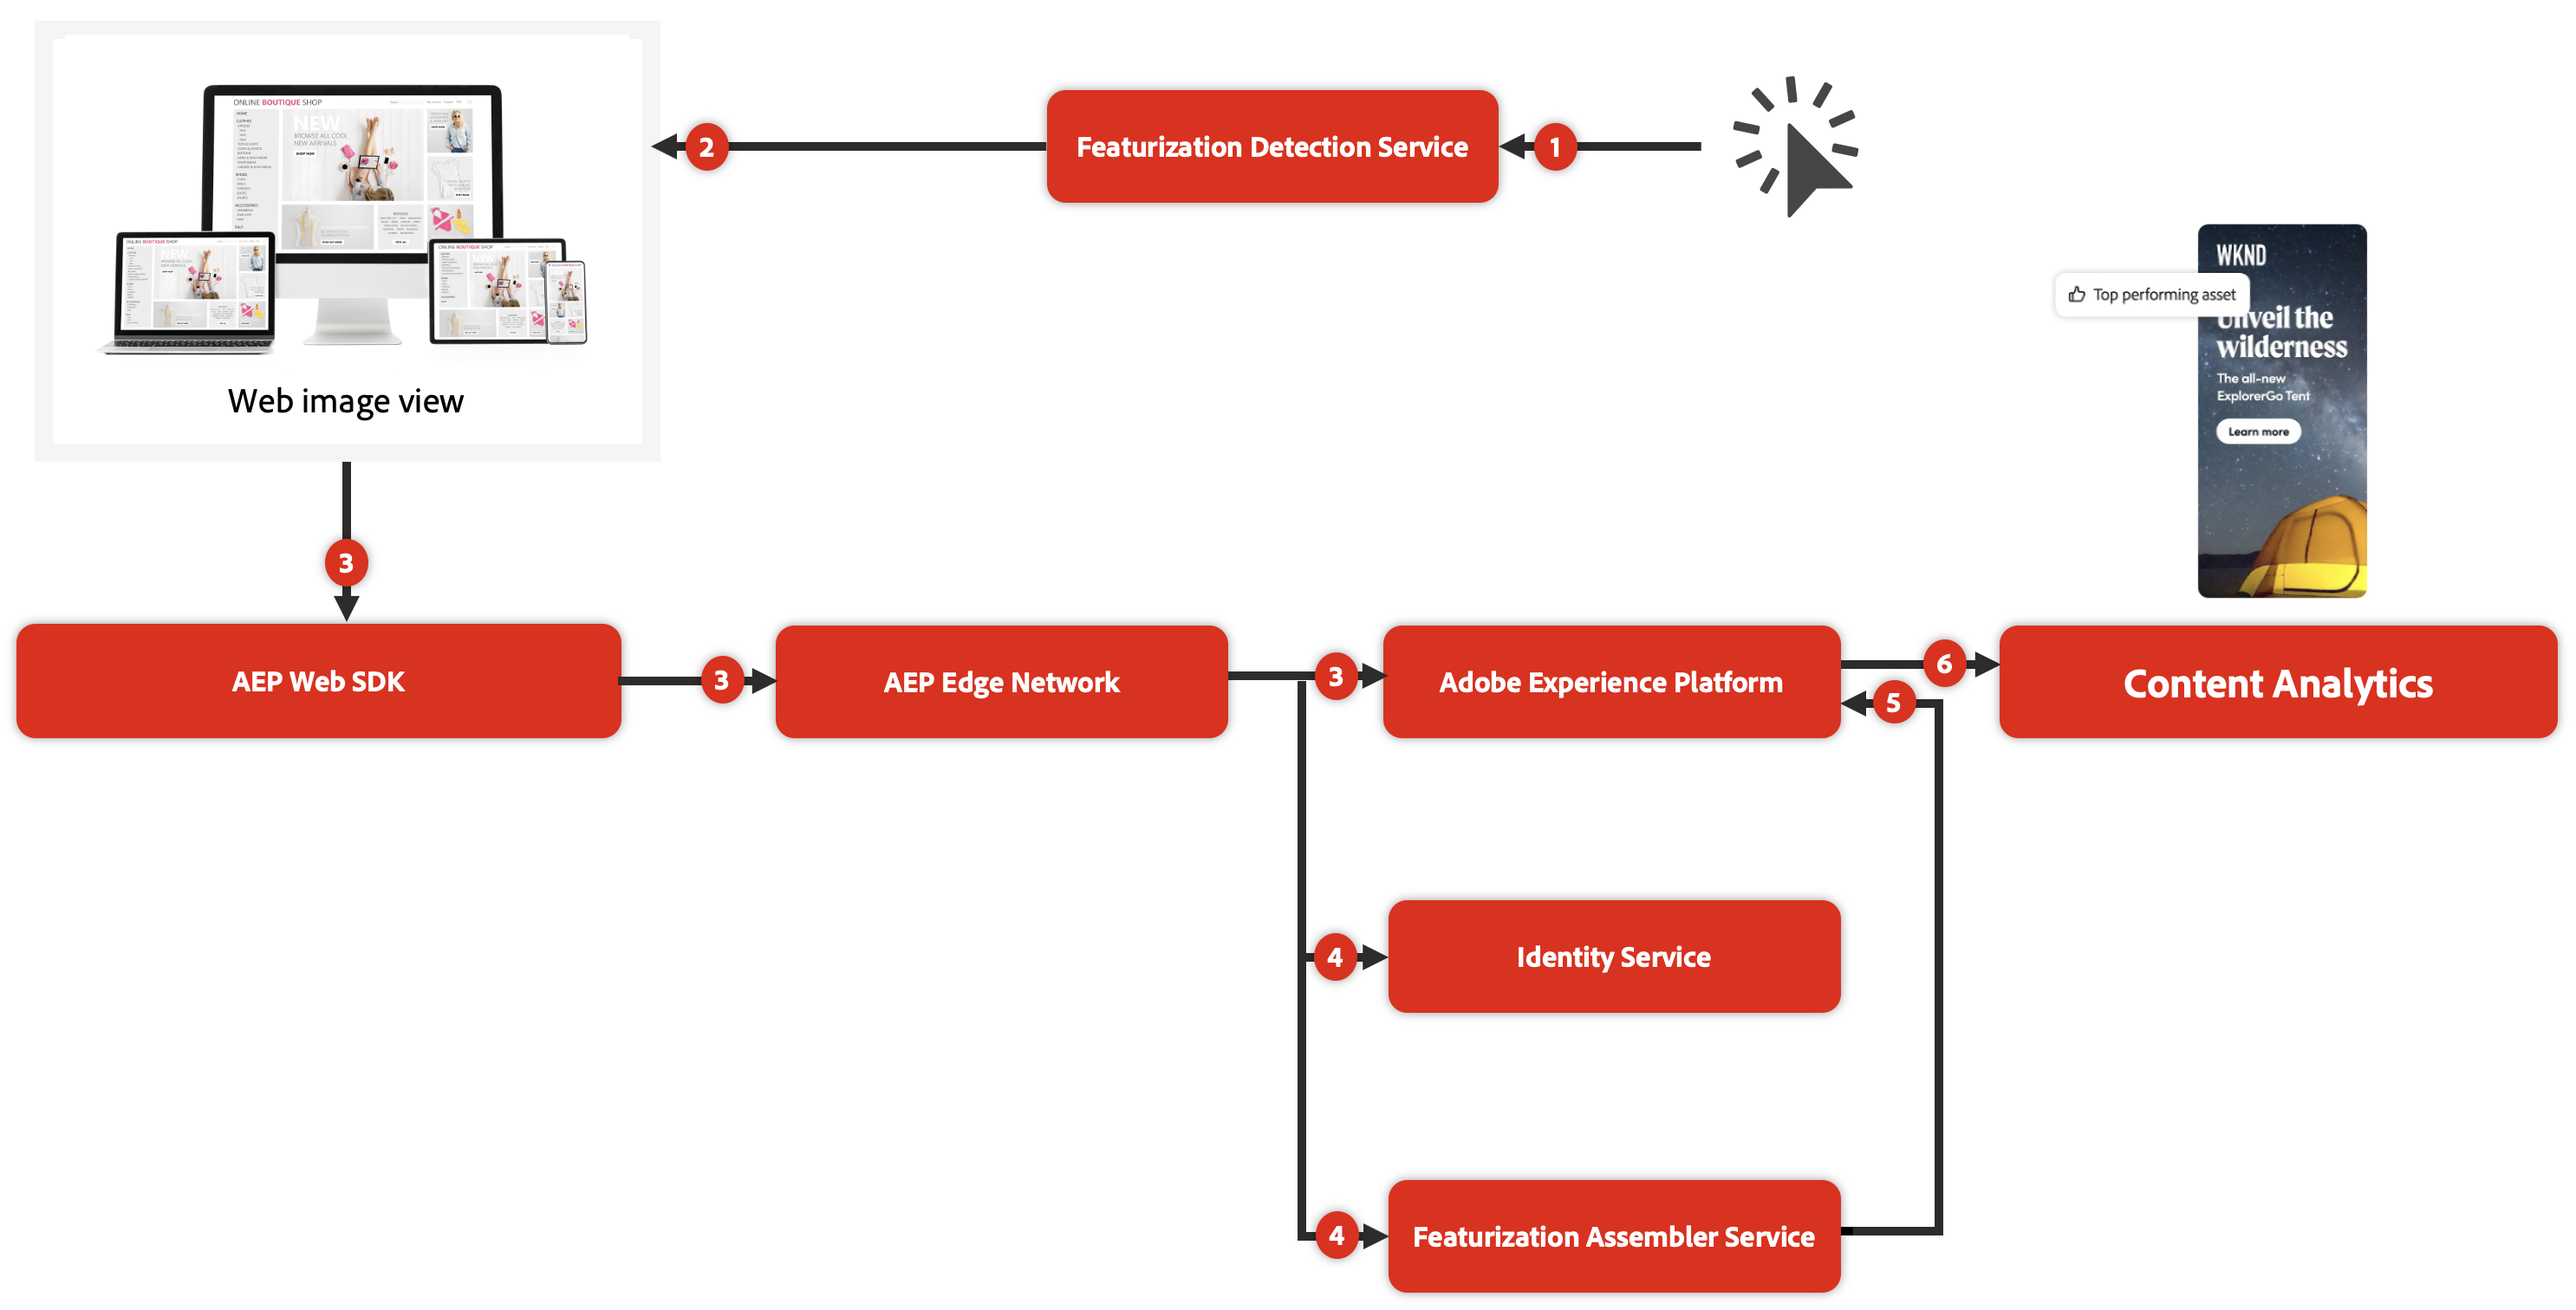
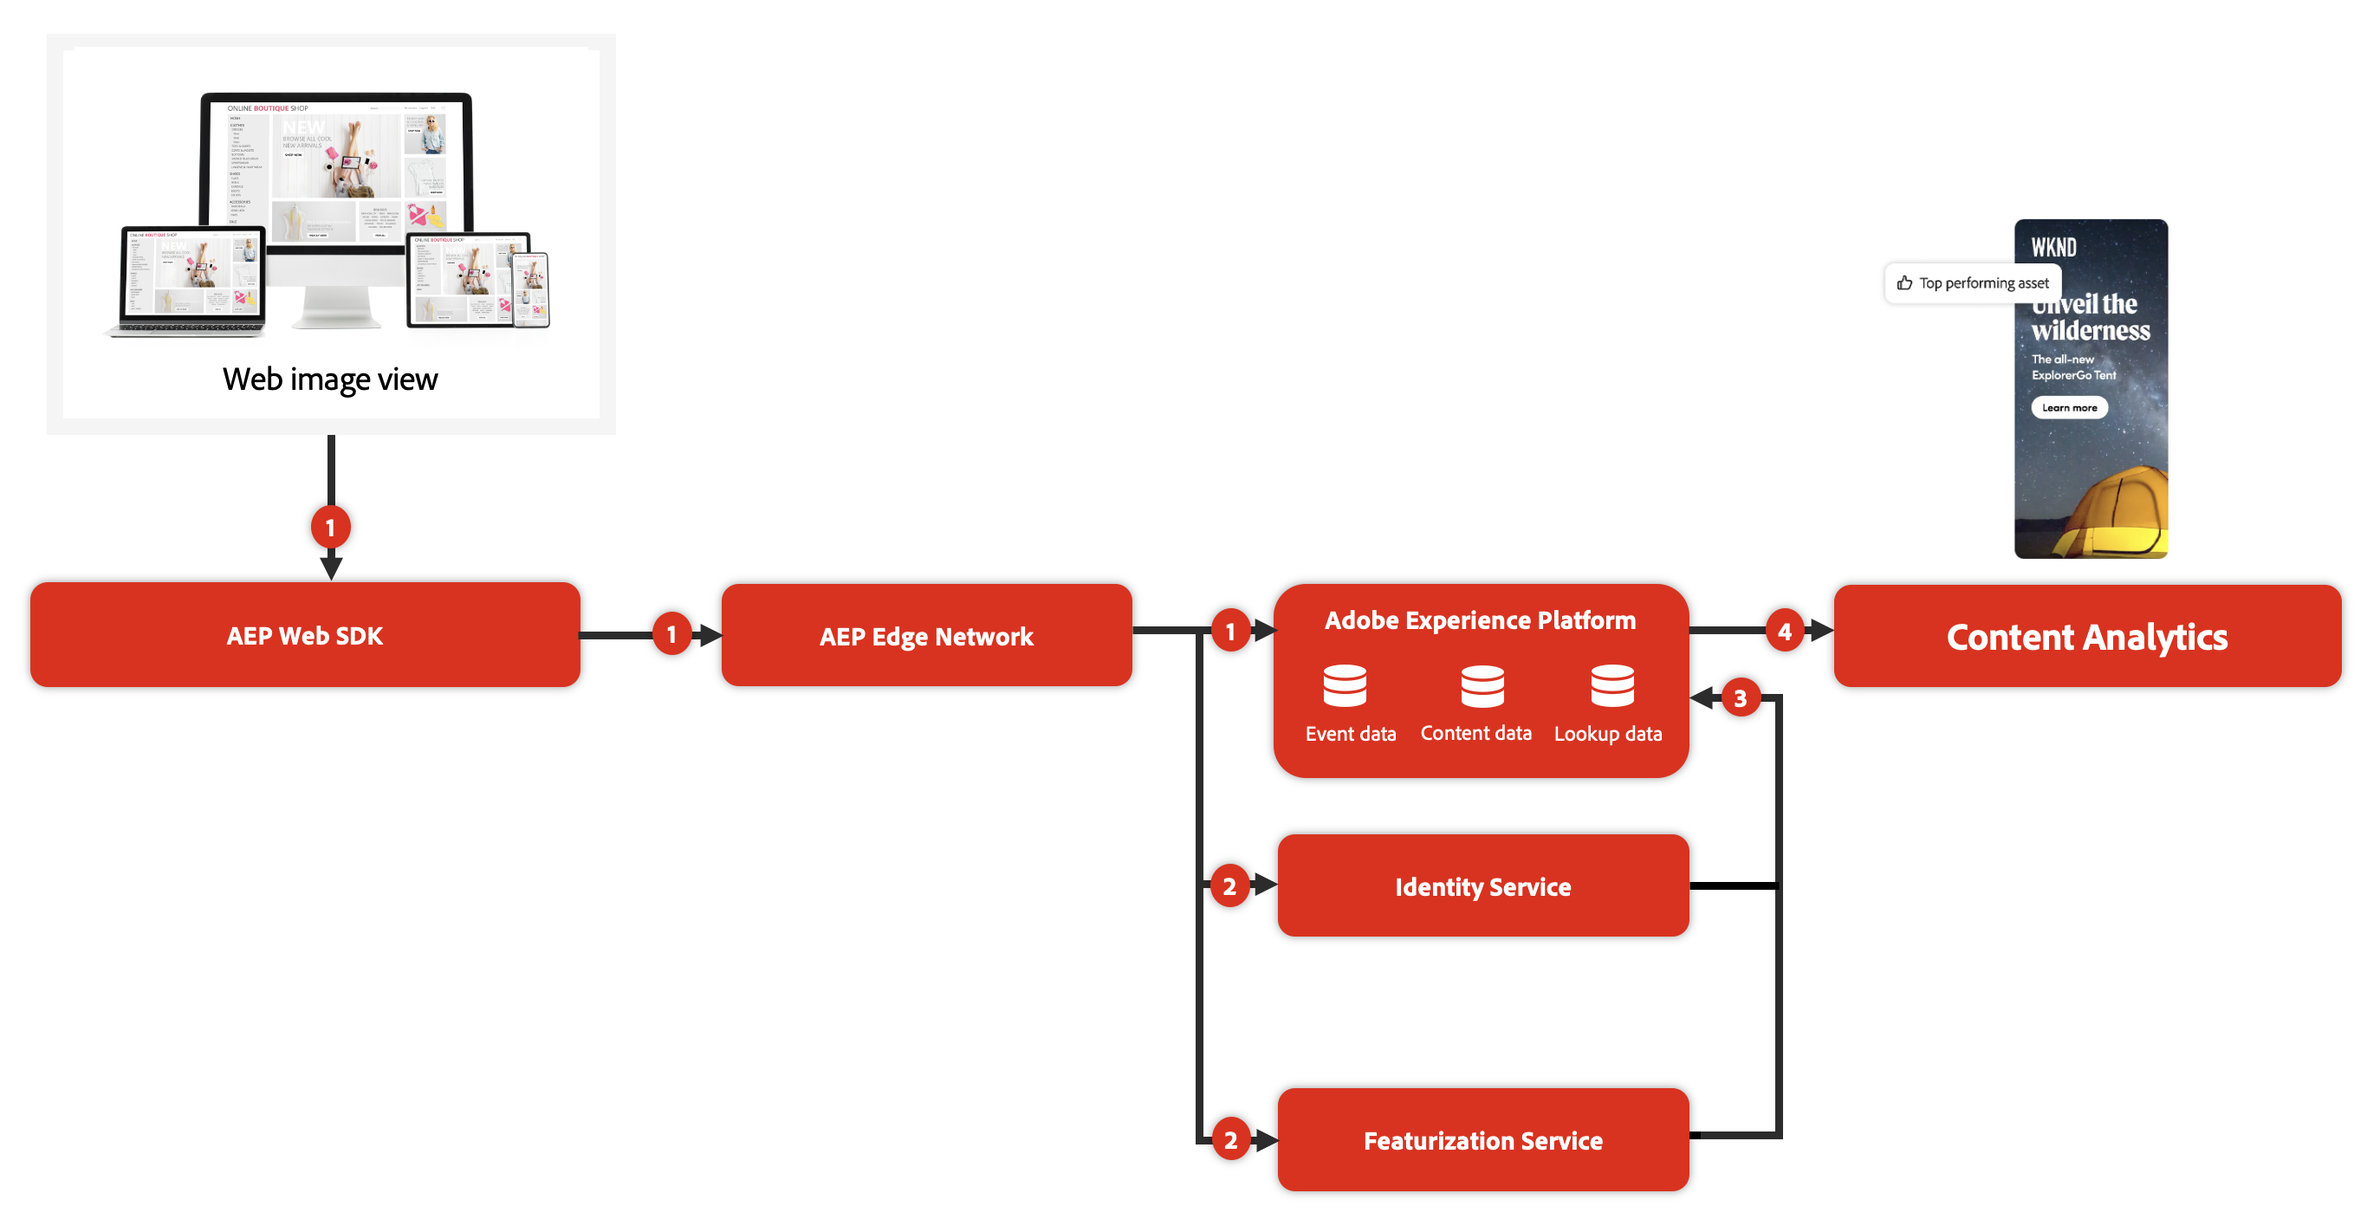
Updates

diff --git a/help/content-analytics/config/guided.md b/help/content-analytics/config/guided.md
@@ -15,9 +15,14 @@ exl-id: 4aff664c-3cd9-4591-8122-6ebff10e4a76
 >This article is a preliminary unofficial draft version of a forthcoming final version and is part of the Content Analytics documentation. All content is subject to change and no legal obligations whatsoever can be derived from the current version of this article.  
 >
 
-{#release-limited-testing}
+{{release-limited-testing}}
 
-The guided configuration helps you to configure Content Analytics quickly and easily. The guided configuration uses a wizard to set up the requirements to configure Content Analytics automatically for your organization. In the **[!UICONTROL Configuration]** screen, you can either create a new configuration or edit an existing configuration.
+The guided configuration helps you to configure Content Analytics quickly and easily. The guided configuration uses a wizard to set up the requirements to configure Content Analytics automatically for your organization. In the **[!UICONTROL Configuration]** screen, you can either create a new configuration or edit an existing configuration. 
+
+>[!IMPORTANT]
+>
+>You can only have one Content Analytics configuration per sandbox in your organization.
+
 
 To access the Content Analytics configuration
 
@@ -141,7 +146,9 @@ A Data view is tied to a Customer Journey Analytics [Connection](/help/connectio
 
 <!-- markdownlint-enable MD034 -->
 
-In this section, you can select to include Experiences in the data you collect with Content Analytics. An experience is all text on a web page that is reproducible using the URL used by the initial user visiting that web page. When selected, you have to define for which URLs you want to include experiences.
+In this section, you can select to include Experiences in the data you collect with Content Analytics.  An experience is all text on a web page that is reproducible using the URL used by the initial user visiting that web page. 
+
+By default, **[!UICONTROL Include experiences]** is turned off. When selected, you have to define for which URLs you want to include experiences.
 
 To include Experiences in a new or not implemented configuration:
 
@@ -151,8 +158,8 @@ To include Experiences in a new or not implemented configuration:
 1. Specify the parameters that determine how content is rendered on your website. The parameters are zero or more combinations of a **[!UICONTROL Domain regular expression]** and **[!UICONTROL Query parameters]**.
    1. Enter a **[!UICONTROL Domain regular expression]**, for example `(?!.*\b(store|help|admin)\b)`.
    1. Specify a comma separated list of **[!UICONTROL Query parameters,]** for example `outdoors, patio, kitchen`.
-   1. Select **[!UICONTROL Remove]** if you want to remove a combination.
-   1. Select **[!UICONTROL Add another]** if you want to add another combination.
+1. Select **[!UICONTROL Remove]** if you want to remove a combination of domain regular expression and query parameters.
+1. Select **[!UICONTROL Add another]** if you want to add another combination of a regular expression and query parameters..
 
 To edit existing or include new Experiences in an implemented configuration:
 
@@ -224,10 +231,7 @@ In a new configuration, you need to define which Tag property you want to use, o
 
     1. Select **[!UICONTROL Create new]**.
     2. Specify a **[!UICONTROL Tag name]**, for example `ACA Test`.
-    3. Specify one or more **[!UICONTROL Domains]**, for example, `example.com`. 
-
-    * To add more domains, select **[!UICONTROL Add another]**.
-    * To remove a domain, select ![CrossSize75](/help/assets/icons/CrossSize75.svg).
+    3. Specify **[!UICONTROL Domains]**, for example, `example.com`. 
 
 * If you have selected to include experiences, indicate which pages should be included or excluded when collecting data for Content Analytics.
 
@@ -248,13 +252,25 @@ For an existing configuration, you cannot edit the Tag property. You can, howeve
 
 ### Summary
 
-Once you have provided all necessary details, you see a **[!UICONTROL You're almost ready to implement _configuration name_ for Content Analytics]** summary. 
+Once you have provided all necessary details, a summary provides details on the artefacts that are created or modified.
 
-For existing implemented configurations, you see a **[!UICONTROL You have implemented _configuration name_ for Content Analytics]** summary.
+* You see a **[!UICONTROL You're almost ready to implement _configuration name_ for Content Analytics]** summary when you implement a new configuration. 
+
+* For existing implemented configurations, you see a **[!UICONTROL You have implemented _configuration name_ for Content Analytics]** summary.
 
 ![Content Analytics Configuration Summary](../assets/aca-configuration-summary.png)
 
 ### Actions
+
+<!-- markdownlint-disable MD034 -->
+
+>[!CONTEXTUALHELP]
+>id="aca_onboarding_implementation_warning"
+>title="Onboarding implementation warning"
+>abstract="This will configure Content Analytics based partially on the input you provided in this workflow. Several other settings are chosen automatically based on what is generally useful for Content Analytics. You are encouraged to review the settings of each artifact to confirm they meet your requirements and guidelines. <br/>Note that no data will be collected until the Tags library associated with this configuration is published manually.<br/>Also note that in order to derive attributes of images and text, Adobe will retrieve these attributes using the url captured at the time of the users visit per the data collection settings you have implemented."
+
+<!-- markdownlint-enable MD034 -->
+
 
 When you have created or edited a configuration, the following actions are available.
 

diff --git a/help/content-analytics/content-analytics.md b/help/content-analytics/content-analytics.md
@@ -21,11 +21,11 @@ This is a placeholder article for upcoming Content Analytics documentation. Curr
 
 {#release-limited-testing}
 
-Content Analytics helps marketers to understand how content impacts the key performance indicators that a business has defined. On top of the traditional micro-level based functionalities to test pieces of content (for example, A/B tests), Content Analytics provides insights how content is driving impact at a macro level. For example, do customers respond better to a specific tone of voice, a specific color pallet, or specific themes?
+Content Analytics helps marketers to understand how content impacts the key performance indicators that a business has defined. On top of the behavioral data, Content Analytics collects data how content is consumed and how content drives impact. For example, do customers respond better to a specific tone of voice, a specific color pallet, or specific themes? This information, together with specifically designed reporting workflows and templates, can help you to perform even better analysis and gain deeper insights on customer journey data in Customer Journey Analytics. 
 
 Content Analytics uses an AI and machine learning based **featurization service** to break content down into components and attributes. By creating a structured metadata profile on all your content, you can analyze what content and what attributes of that content drives business results. 
 
-In addition to the creation of this structured metadata profile, Content Analytics provides an **identity service** that identifies assets and experiences using a single identifier. The identity service understands whether an asset, for example, has been resized, cropped, or saved to a different file format. The service assigns all variations of that asset to the same single identifier. As a result, the identity service allows you to aggregate the performance of an asset based on its various forms and placements.
+In addition to the creation of this structured metadata profile, Content Analytics provides an **identity service** that identifies assets and experiences using a single identifier. The identity service can recognize when the exact same asset appears in more than one place. When that happens the two instances of assets will be treated as the same, allowing for a more holistic view of content usage and consumption.
 
 ## Value
 
@@ -53,9 +53,7 @@ Content Analytics uses web image view data collected in event datasets in Experi
 ![Content Analytics - How it works](assets/how-it-works.png)
 
 
-1. The detection part of the featurization service is triggered upon any new snapshot of data arriving at a Content Analytics enabled event dataset. 
-1. The featurization detection service determines which data in that snapshot is relevant for content analytics and revisits the experience and assets of these web image views. 
-1. Upon the revisit, specific content analytics data is collected through a proper configuration of the Experience Platform Web SDK and Experience Platform Edge Network. And then the data is sent to a dedicated content analytics dataset and relevant lookup datasets. 
+1. When a user visits a site, the Experience Plarform Web SDK, configured for Content Analytics, records interactions with content.
 1. The featurization assembler service and identity service process the revisited data. 
 1. The results of these services (components, attributes, and identities) are used to update the relevant specific content analytics datasets in Experience Platform.
 1. The content analytics data, together with behavioral data and other lookup datasets, can then be used in a Customer Journey Analytics configuration (Connection, Data view and Workspace). That configuration provides the foundation to the unique macro-level insights on your content.

diff --git a/help/content-analytics/report/report.md b/help/content-analytics/report/report.md
@@ -10,6 +10,13 @@ exl-id: 6e756ae8-b969-46f1-95b8-d8fbb0d058ed
 ---
 # Content Analytics reporting overview
 
+>[!WARNING]
+>
+>This article is a preliminary unofficial draft version of a forthcoming final version and is part of the Content Analytics documentation. All content is subject to change and no legal obligations whatsoever can be derived from the current version of this article.  
+>
+
+{{release-limited-testing}}
+
 Reporting on Content Analytics is done within Analysis Workspace. A specific Workspace [template](#template) is available, so you can immediately access a pre-populated Workspace project with relevant content insights.
 
 To start reporting on Content Analytics from scratch:

diff --git a/help/content-analytics/config/configuration.md b/help/content-analytics/config/configuration.md
@@ -15,7 +15,8 @@ exl-id: 3ea46223-c7d0-4b1f-bc84-4f35494f13a0
 >This article is a preliminary unofficial draft version of a forthcoming final version and is part of the Content Analytics documentation. All content is subject to change and no legal obligations whatsoever can be derived from the current version of this article.  
 >
 
-{#release-limited-testing}
+{{release-limited-testing}}
+
 
 To configure Content Analytics for your organization, you can either:
 

diff --git a/help/content-analytics/config/manual.md b/help/content-analytics/config/manual.md
@@ -15,7 +15,7 @@ exl-id: 2b2d1cc2-36da-4960-ab31-0a398d131ab8
 >This article is a preliminary unofficial draft version of a forthcoming final version and is part of the Content Analytics documentation. All content is subject to change and no legal obligations whatsoever can be derived from the current version of this article.  
 >
 
-{#release-limited-testing}
+{{release-limited-testing}}
 
 *And now for something completely different...*
 
